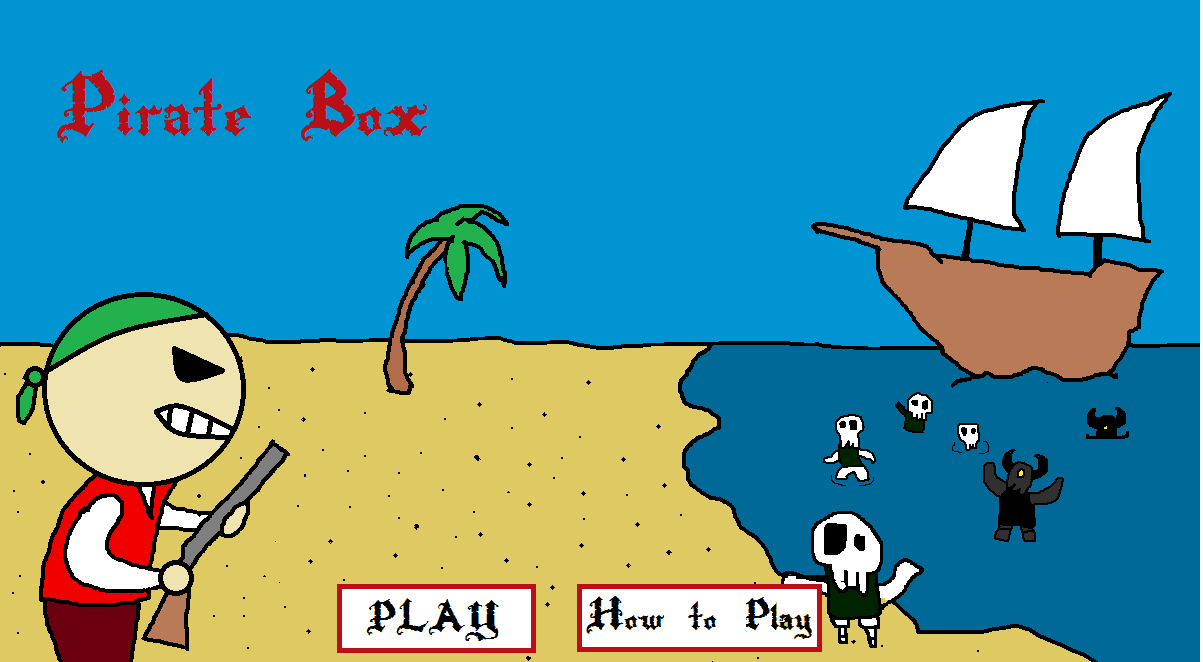
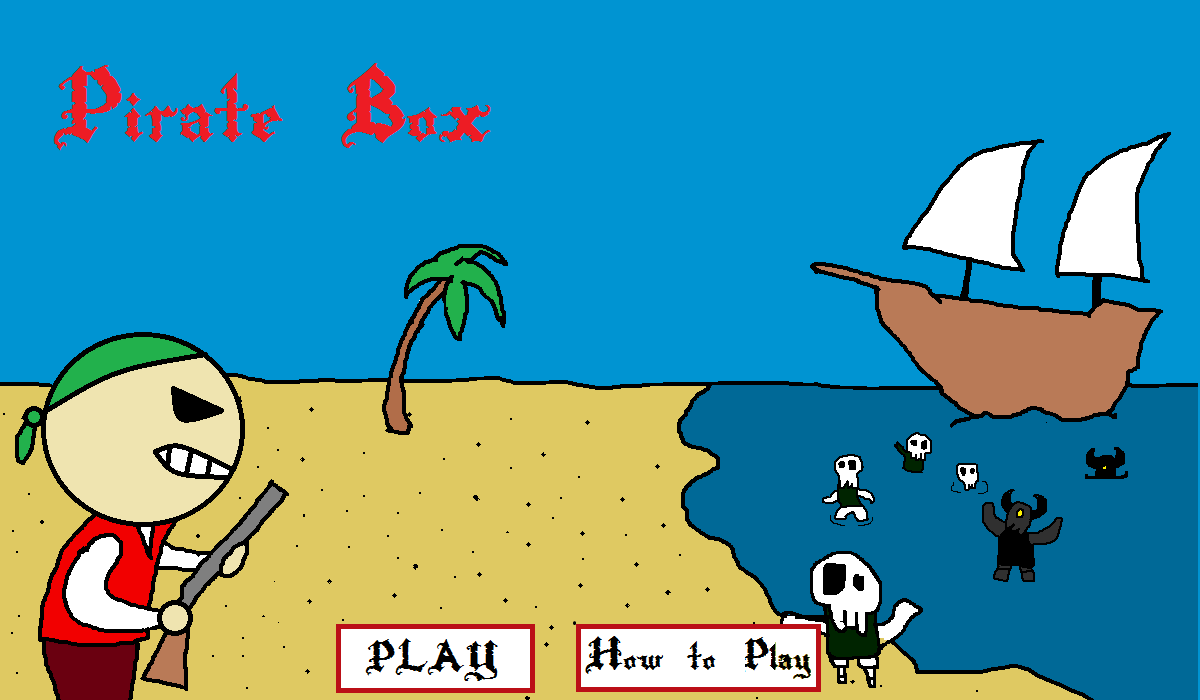
imagen de inicio corregida

Changed region(s): [[0.0, 0.0, 1.0, 1.0], [0.0308, 0.0906, 0.4008, 0.2115], [0.8633, 0.9668, 0.925, 1.0]]

diff --git a/src/pirateboxfinal/examen.java b/src/pirateboxfinal/examen.java
@@ -1615,8 +1615,8 @@ public class examen extends JFrame implements Runnable, KeyListener, MouseListen
 
     @Override
     public void mouseReleased(MouseEvent e) {
-        Rectangle play = new Rectangle(337, 583, 198, 69);
-        Rectangle how = new Rectangle(576, 583, 246, 69);
+        Rectangle play = new Rectangle(337, 624, 199, 70);
+        Rectangle how = new Rectangle(576, 624, 246, 70);
         x1 = e.getX();
         y1 = e.getY();
         if (play.contains(x1, y1) && !howt) {
